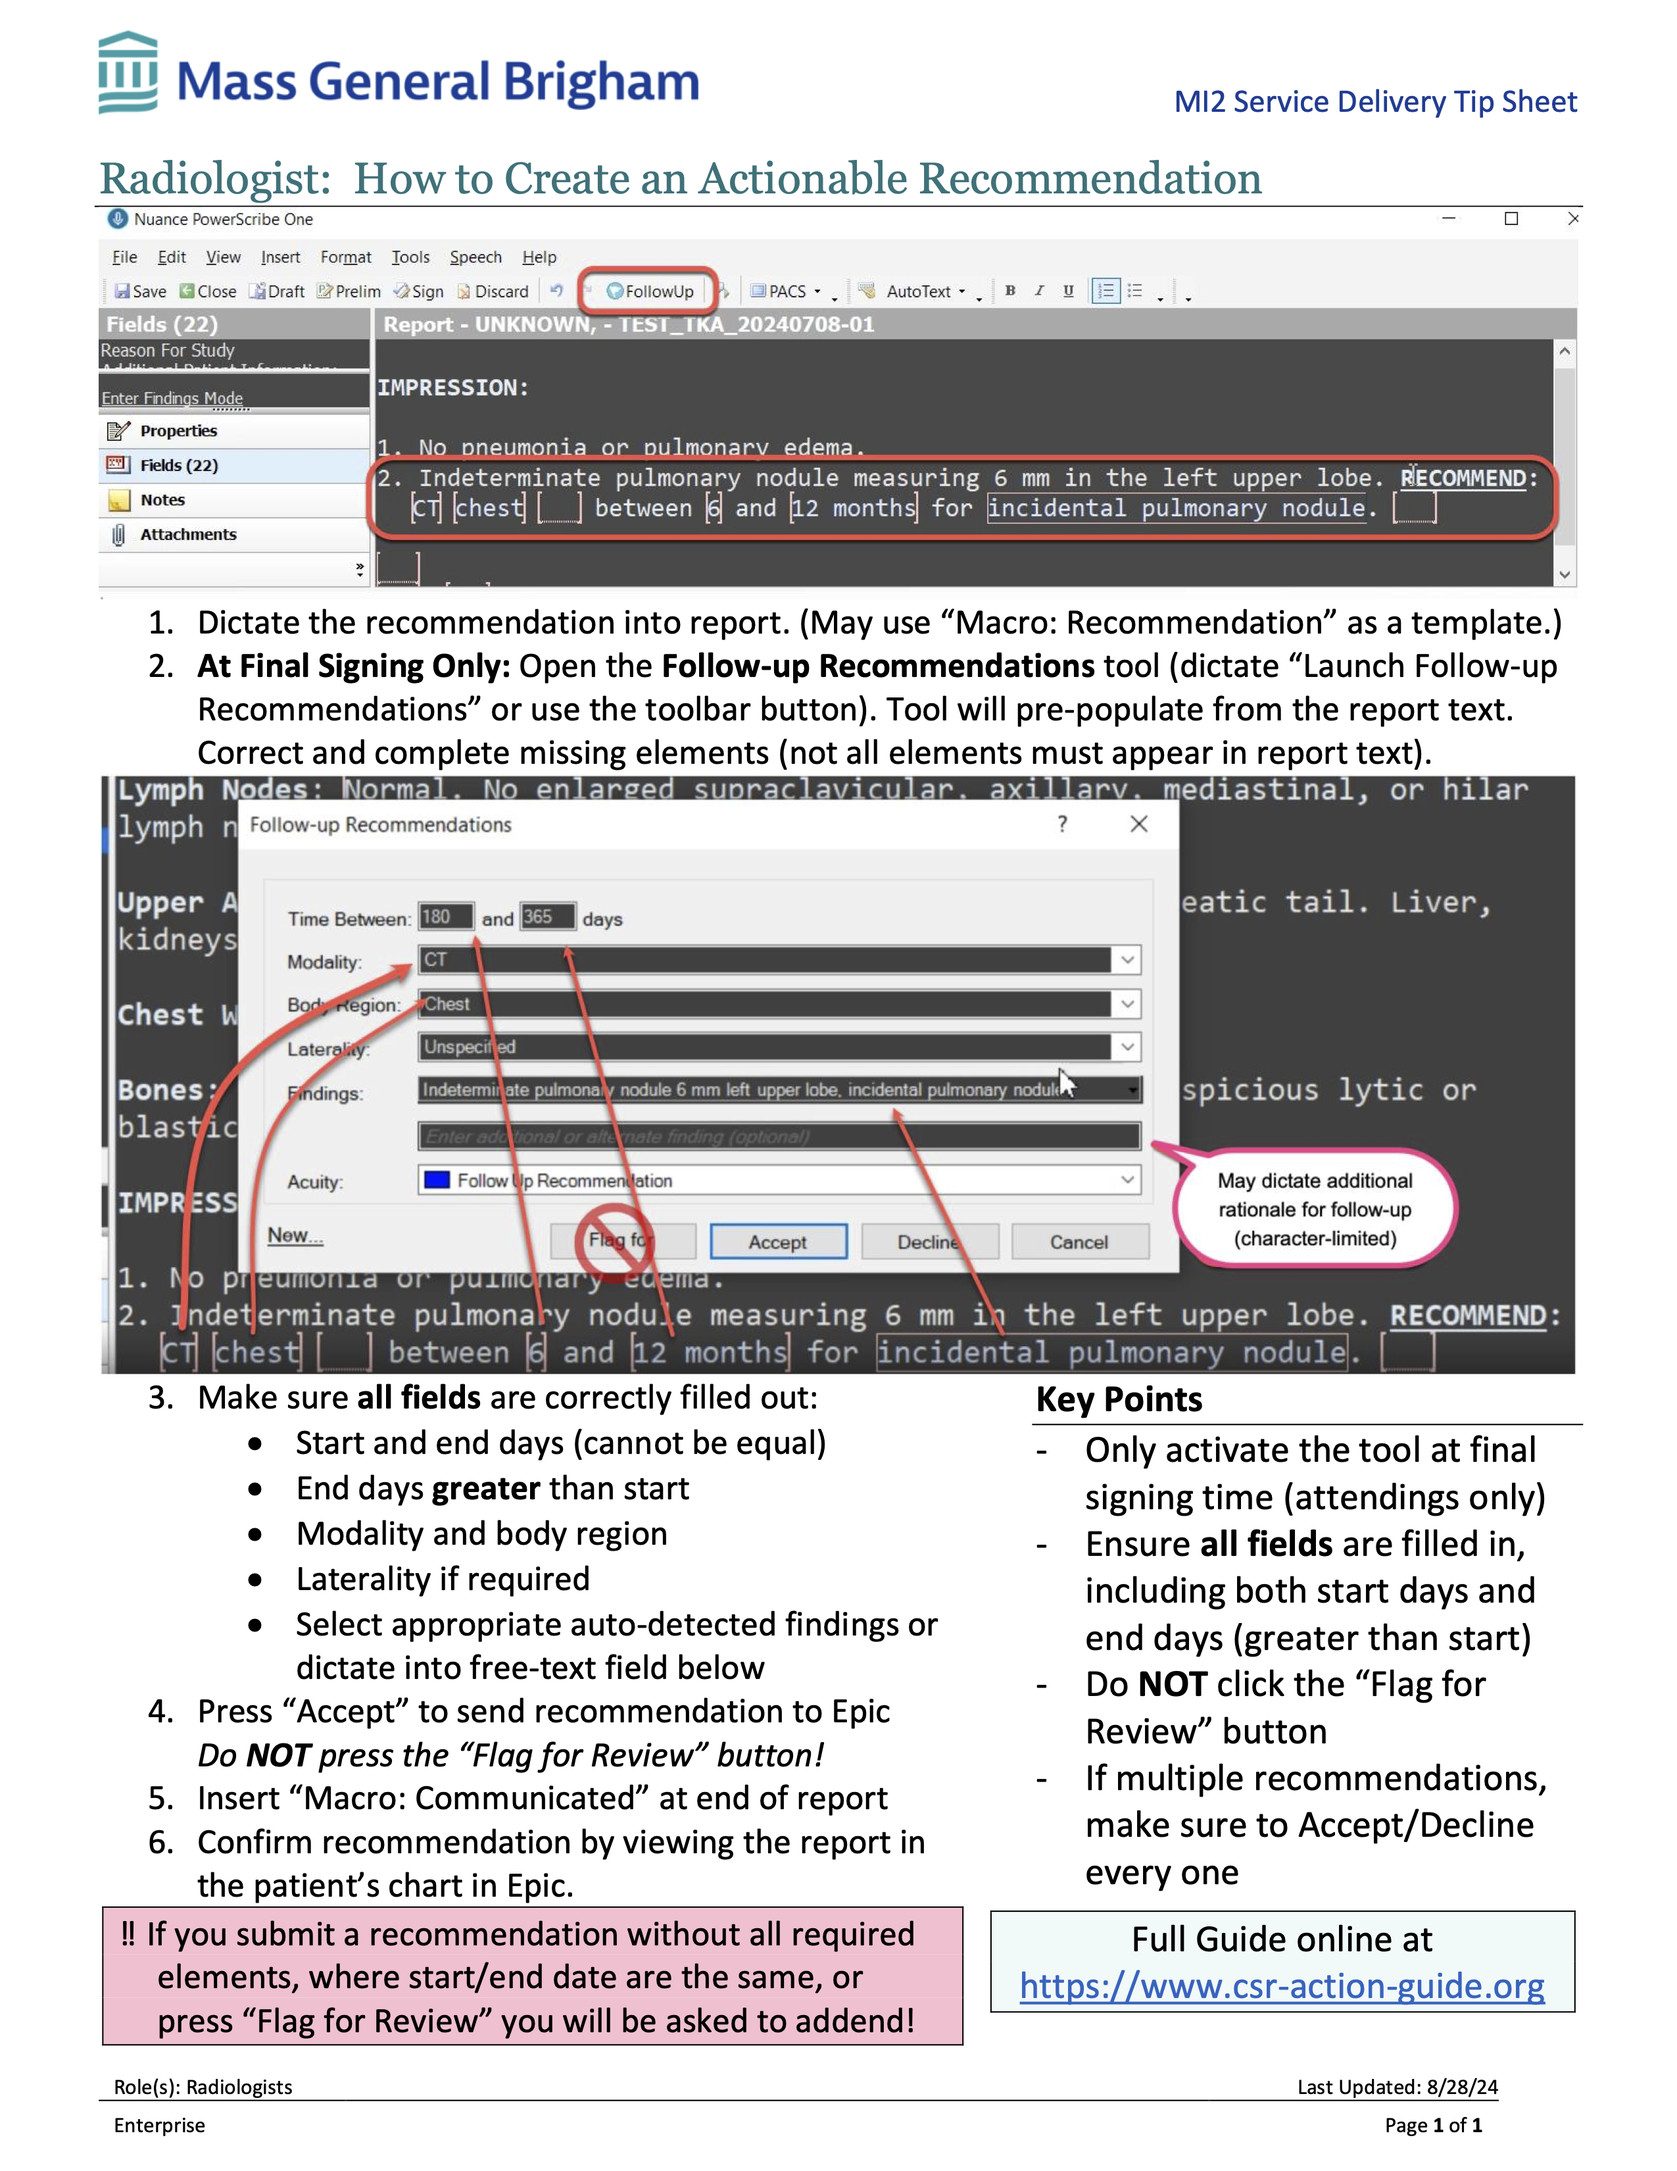
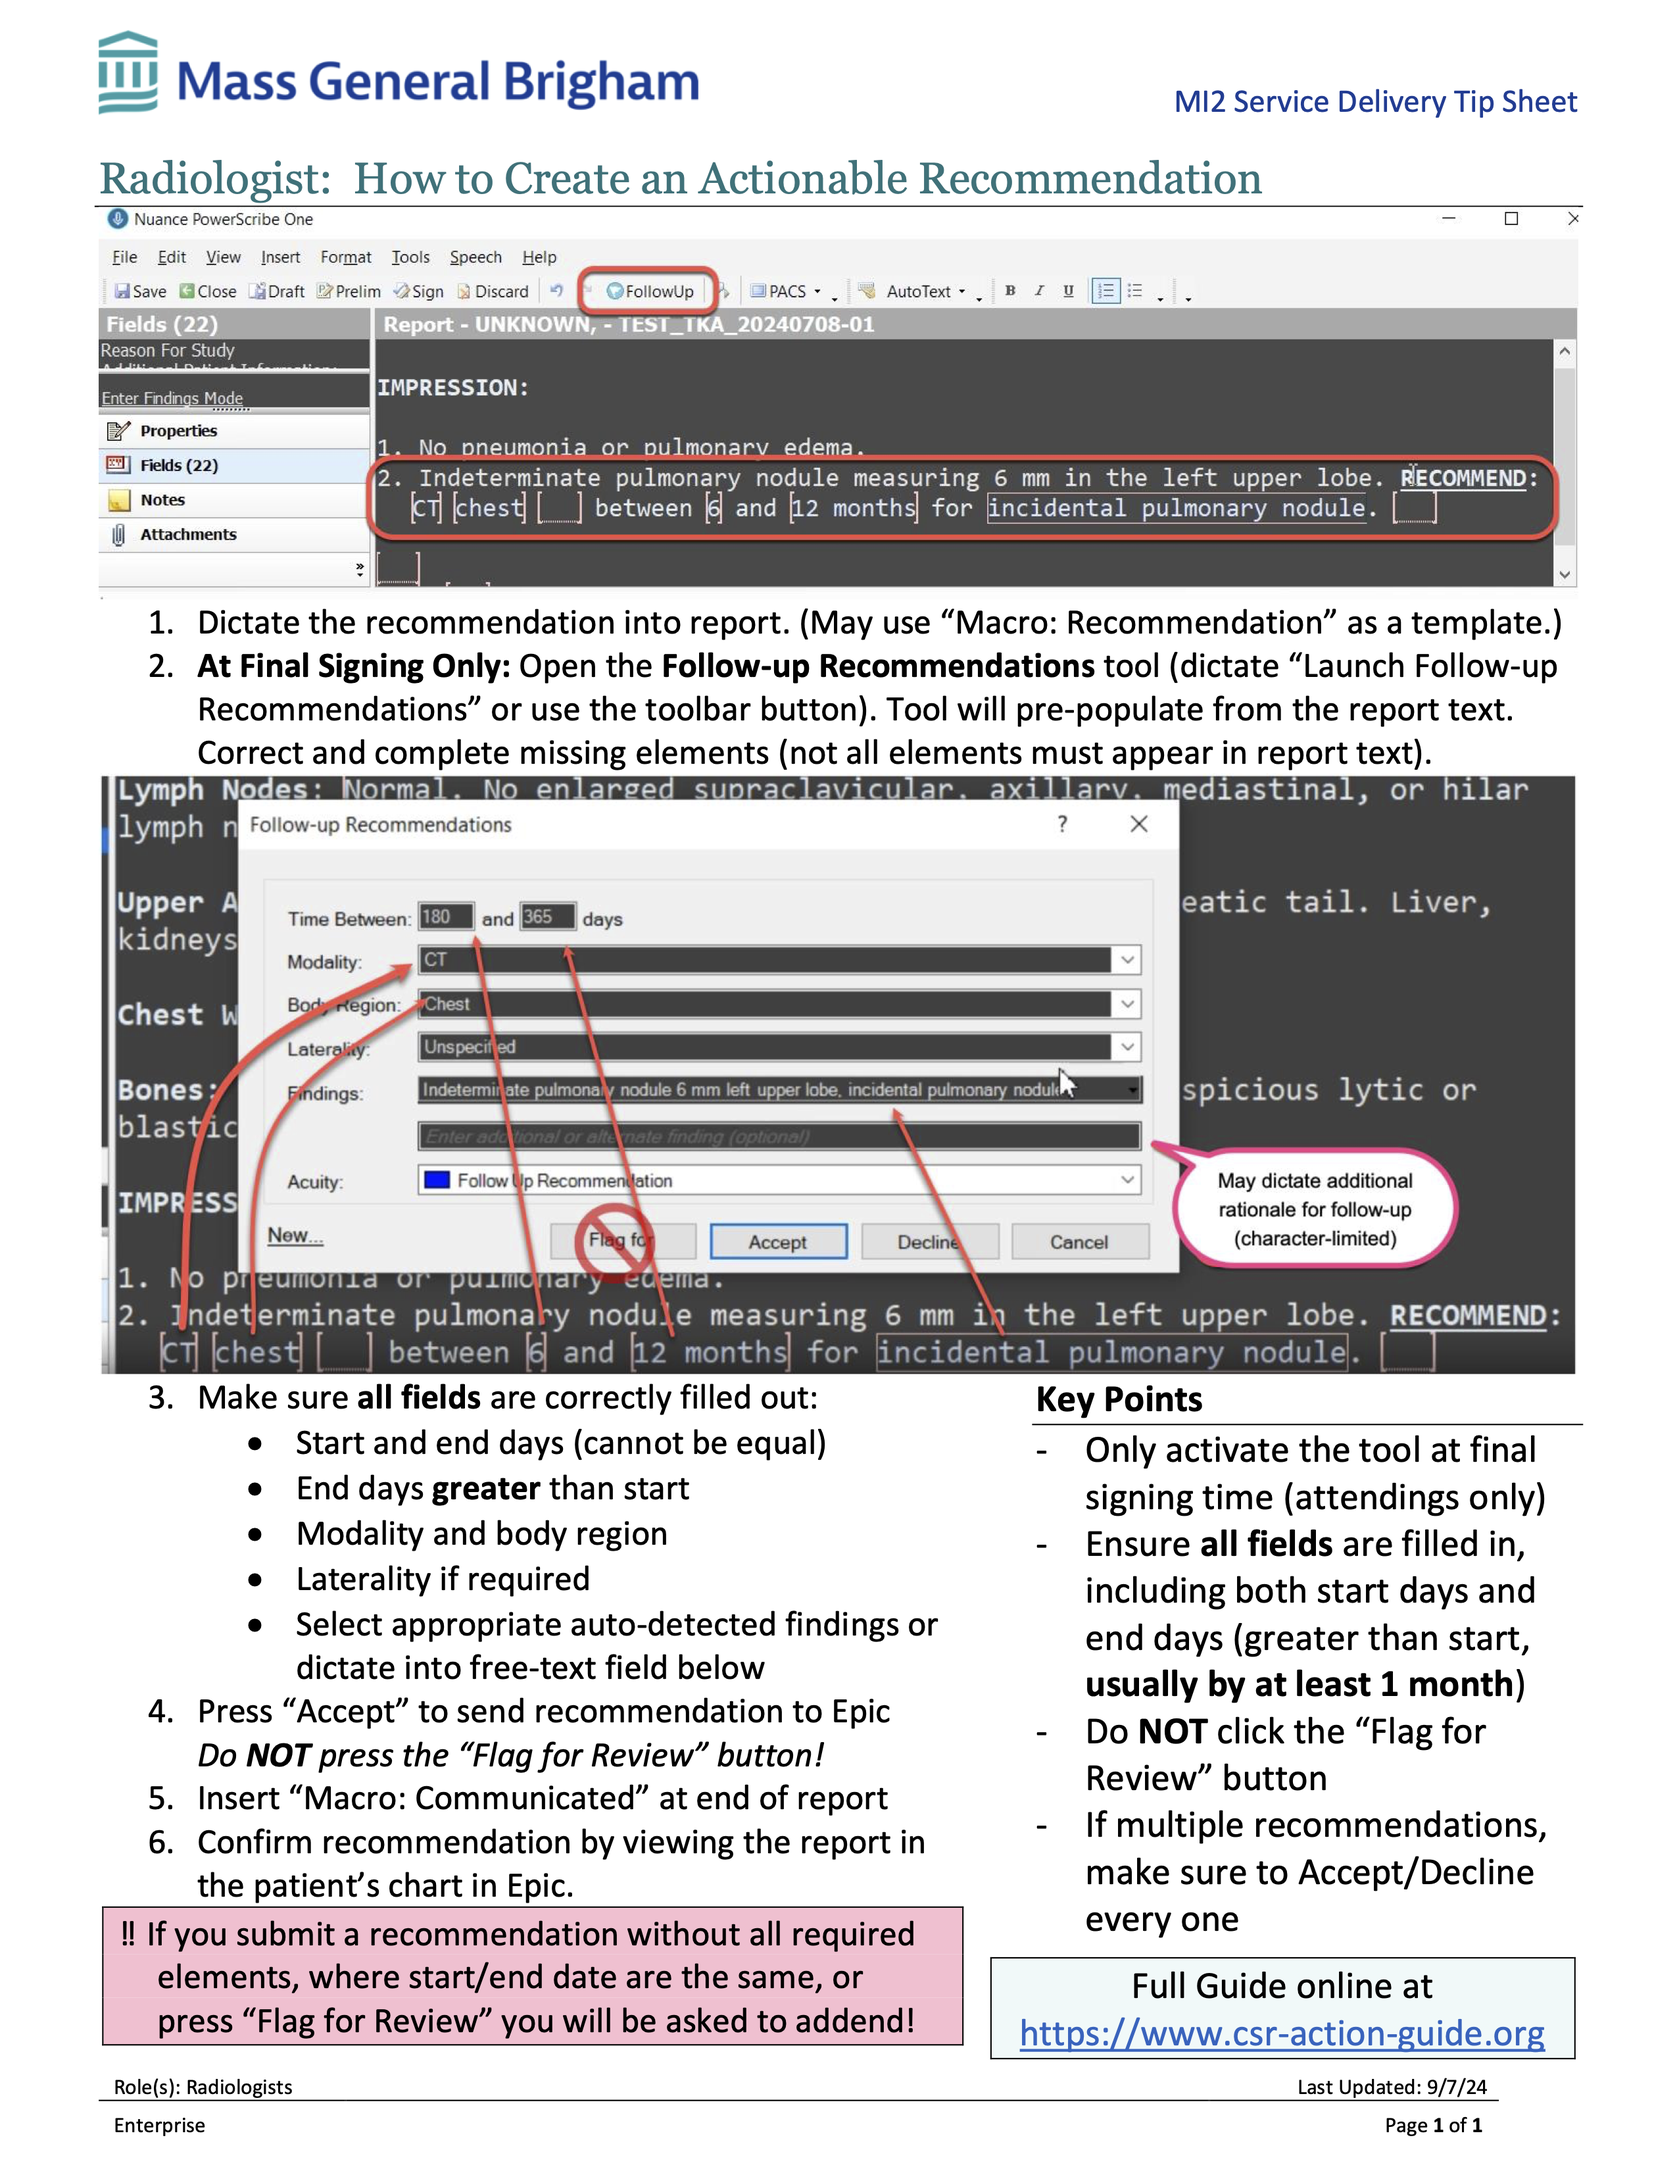
Added warnings about the day range.

Changed region(s): [[0.5886, 0.7491, 0.9294, 0.9676]]

diff --git a/what_happens.py b/what_happens.py
@@ -46,9 +46,10 @@ if not hasattr(st.session_state, "submitted"):
 st.header("What Happens When I...?")
 
 """
-Select a time frame,  modality, body part, and (if needed) laterality to see what
-recommendation would be sent to Epic for the provider to consider and possibly
-order. **Remember to use distinct start and end days for the recommendation!**
+Select a time frame,  modality, body part, and (if needed)
+laterality to see what recommendation would be sent to Epic for the provider to 
+consider and possibly order. **Remember to use distinct start and end days for 
+the recommendation (range at least 30 days)!**
 """
 
 
@@ -134,8 +135,10 @@ if submit_button or st.session_state.show:
         errors.append("Please select a body region.")
     if start_days is None or end_days is None or start_days < 0 or end_days < 1:
         errors.append("Please enter positive numbers for both start and end days.")
-    if start_days and end_days and start_days >= end_days:
-        errors.append("End days must be greater than start days.")
+    if start_days and end_days and start_days >= end_days - 29:
+        errors.append(
+            "End days must be greater than start days (range as broad as possible, usually at least 1 month)."
+        )
 
     recommendable = None
     if body_part and modality:

diff --git a/basic_usage.py b/basic_usage.py
@@ -25,7 +25,7 @@ col2.markdown("""
   - Modality of the recommended exam 
   - Body part to be imaged
   - Laterality (if relevant)
-  - **Distinct** start and end days
+  - **Distinct** start and end days (range as broad as possible, usually at least 1 month)
   - Finding to be evaluated / Reason for recommendation
 """)
 
@@ -37,7 +37,7 @@ col1.markdown("""
 - Use either the mouse or dictation commands to move between fields and fill them in
 - Though the tool will allow you to create an incomplete recommendation, please **fill in
   all the fields** 
-- Be sure to use **distinct** start and end days
+- Be sure to use **distinct** start and end days (range as broad as possible, usually at least 1 month)
 - If the "Findings" drop-down does not contain an appropriate description of the reason
   for the recommendation, uncheck all the boxes and dictate the reason for recommendation
   in the text field below.
@@ -72,7 +72,7 @@ with col1:
     st.markdown("""
   - Use the tool at final sign time
   - Make sure to fill in all the required fields
-  - Make sure the end days is greater than the start day
+  - Make sure the end days is greater than the start day (range as broad as possible, usually at least 1 month)
   - Do **not** use the "Flag for Review" button
   """)
 

diff --git a/constants.py b/constants.py
@@ -1,7 +1,7 @@
 BASE_PAGE_TITLE = "CSR Action Guide"
 
 SPECIAL_HANDLING = "Recommendation for Additional Imaging - Special Handling/Complex"
-ADDITIONAL_IMAGING = "Additional Imaging Needed"
+ADDITIONAL_IMAGING = "Unmapped Recommendation"
 INTERVENTIONAL_PROCEDURE = "Interventional Procedure Recommendation"
 NON_RADIOLOGY = "Non-Radiology Recommendation"
 LATERALITY_UNSPECIFIED = (
@@ -9,7 +9,8 @@ LATERALITY_UNSPECIFIED = (
 )
 
 SPECIAL_RECOMMENDABLES = {
-    ADDITIONAL_IMAGING: """Additional imaging is being recommended, but the no pre-defined
+    ADDITIONAL_IMAGING: """**Unmapped modality/body part pair**: Additional imaging is 
+    being recommended, but the no pre-defined
     recommendation exists for this combination of body part, modality, and laterality. The
     recommendation will be routed to the Radiology Safety Net for ordering based on the 
     text in the report itself, who may contact the recommending radiologist for clarification.""",

diff --git a/training.py b/training.py
@@ -17,7 +17,7 @@ pitfalls = """
 
 - Use the tool **only** at final sign time
 - All fields must be filled in
-- Time range (different start/end dates) are required
+- Time range (different start/end dates) are required (range as broad as possible, usually at least 1 month)
 - Be aware of multiple recommendations
 - All recommendations must be Accepted or Declined to send to Epic
 - Do **NOT** press the "Flag for Review" button
@@ -88,4 +88,6 @@ Watch the video below showing the problems that arise when we dictate "in 6 mont
 or "recommend CT Abdomen/Pelvis" in our reports—and how to avoid them.
             """)
 
-st.video("videos/pitfalls.mp4", autoplay=False, muted=False)
+st.video(
+    "videos/pitfalls.mp4", autoplay=False, muted=False, subtitles="videos/pitfalls.vtt"
+)

diff --git a/field_guide.py b/field_guide.py
@@ -34,7 +34,7 @@ with col2:
 ## Key Points
 
 - Must specify start and end dates, and end date must be different and greater
-  than the start date.
+  than the start date (range as broad as possible, usually at least 1 month).
 - Must specify modality and body region
 - Must specify laterality if relevant
 - Must select appropriate findings and/or use free text
@@ -58,6 +58,8 @@ with col1:
 - The **end date** should be the date after which the recommended exam would be
   overdue, and the Safety Net team should reach out to the patient's care team
   to help them make the exam happen, if it is still indicated.
+- The range should be as **broad as possible**, usually **at least** a month
+  to allow for scheduling flexibility.
 """
 
 with col2:

diff --git a/covered_recs.py b/covered_recs.py
@@ -44,9 +44,9 @@ tool.
 st.warning(
     """
 **Note**: Though you may use the tool for making short-term recommendations, if the
-appropriate time range is shorter than approximately 7 days, it may be appropriate to
-also contact the patient's care team using the CSR Acknowledgement system to ensure
-the recommendation is acted upon in a timely manner.
+appropriate time range is shorter than approximately 30 days, it may be appropriate to
+also (or instead) contact the patient's care team using the CSR Acknowledgement system 
+to ensure the recommendation is acted upon in a timely manner.
     """,
     icon=":material/warning:",
 )

diff --git a/utils.py b/utils.py
@@ -3,7 +3,12 @@ import re
 import pandas as pd
 import streamlit as st
 
-from constants import FILE_NAMES, SPECIAL_HANDLING, SPECIAL_RECOMMENDABLES
+from constants import (
+    ADDITIONAL_IMAGING,
+    FILE_NAMES,
+    SPECIAL_HANDLING,
+    SPECIAL_RECOMMENDABLES,
+)
 
 
 def normalize_string(in_string: str | None) -> str:
@@ -84,7 +89,7 @@ def get_recommendable(
 
 
 FALLBACK_RECOMMENDABLES = {
-    "Radiology": "Additional Imaging Needed",
+    "Radiology": ADDITIONAL_IMAGING,
     "Intervention": "Interventional Procedure Recommendation",
     "NonRadiology": "Non-Radiology Recommendation",
 }

diff --git a/trainee_workflow.py b/trainee_workflow.py
@@ -21,7 +21,8 @@ When creating recommendations, trainees should follow these guidelines:
   the report.
 - All of the elements of the recommendation should be present and clear:
   - The modality and body part, along with the laterality, if applicable.
-  - The date range, **including both start date and end date** (greater than the start)
+  - The date range, **including both start date and end date** (greater than the start, range as broad as possible, 
+    usually at least 1 month))
   - The finding/reason for the recommendation
   - If needed, the code for specifying a specialized protocol
 

diff --git a/vid_basic.py b/vid_basic.py
@@ -26,7 +26,8 @@ col2.page_link(
 """
 > **Key Points:**
 > - The recommendation should include all the required elements
-> - The start and end dates must be different, and the end date must be later than the start
+> - The start and end dates must be different, and the end date must be later than the start  
+    (range as broad as possible, usually at least 1 month)
 > - Use the tool at final sign time
 > - Do not use the "Flag for Review" button
 """

diff --git a/addending.py b/addending.py
@@ -42,7 +42,7 @@ with col2:
     """
 #### Actionable Recommendation Requirements 
 
-   - Specify a time frame with **different** start and end dates
+   - Specify a time frame with **different** start and end dates (range as broad as possible, usually at least 1 month)
    - Specify the modality and body region (± laterality)
    - Provide a rationale for follow-up ("Findings" or free text)
    - **Do not** click the "Flag for Review" button

diff --git a/about.py b/about.py
@@ -1,6 +1,12 @@
 import streamlit as st
 
-st.video("videos/tip_sheet.mp4", autoplay=True, loop=True, muted=True)
+st.video(
+    "videos/tip_sheet.mp4",
+    autoplay=True,
+    loop=True,
+    muted=True,
+    subtitles="videos/tip_sheet.vtt",
+)
 
 st.header("About the CSR Action Program", divider=True)
 
